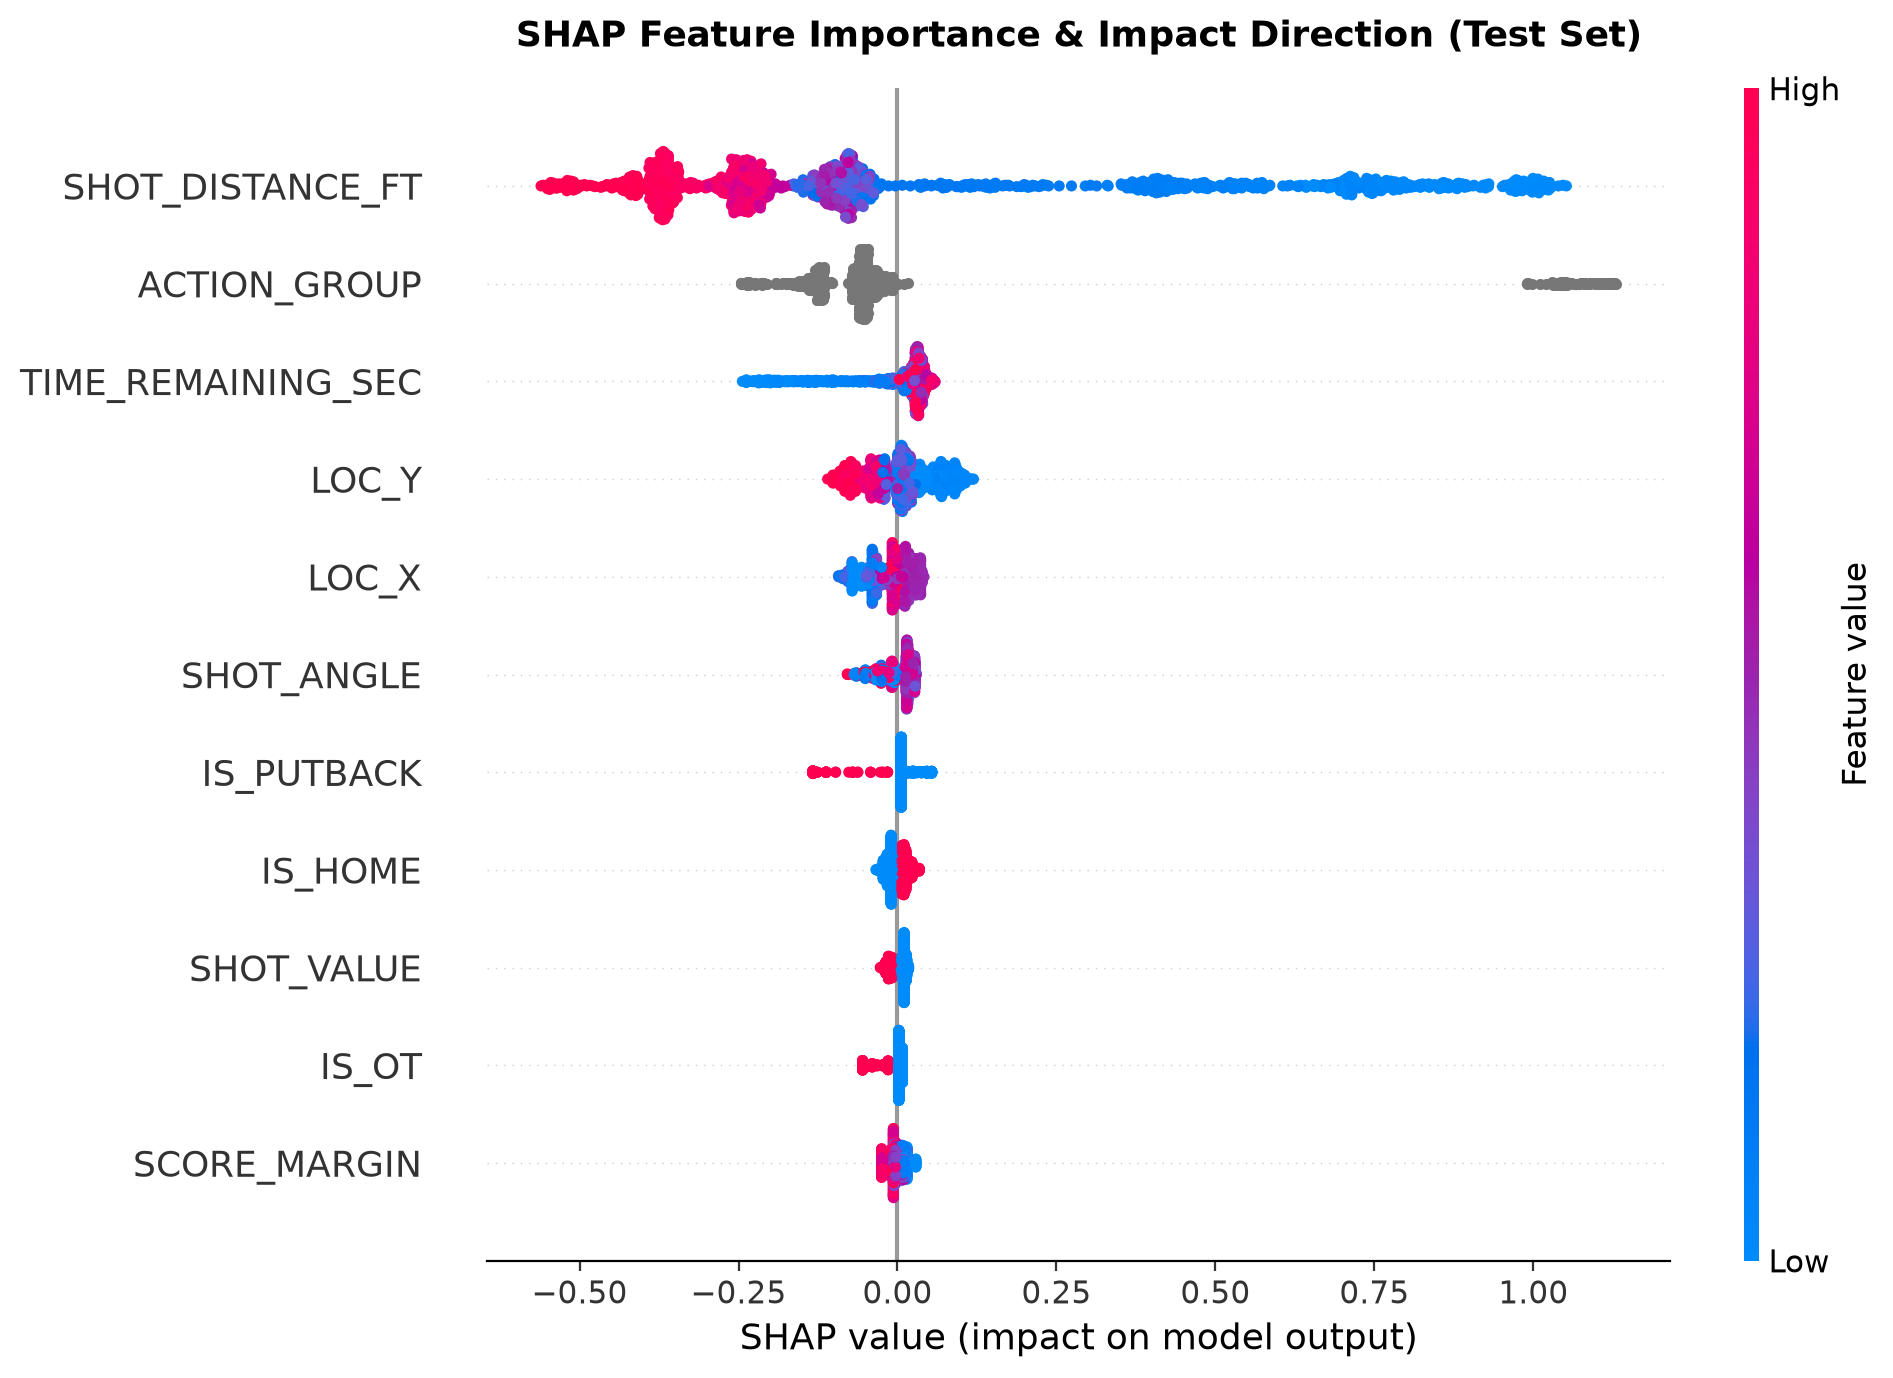
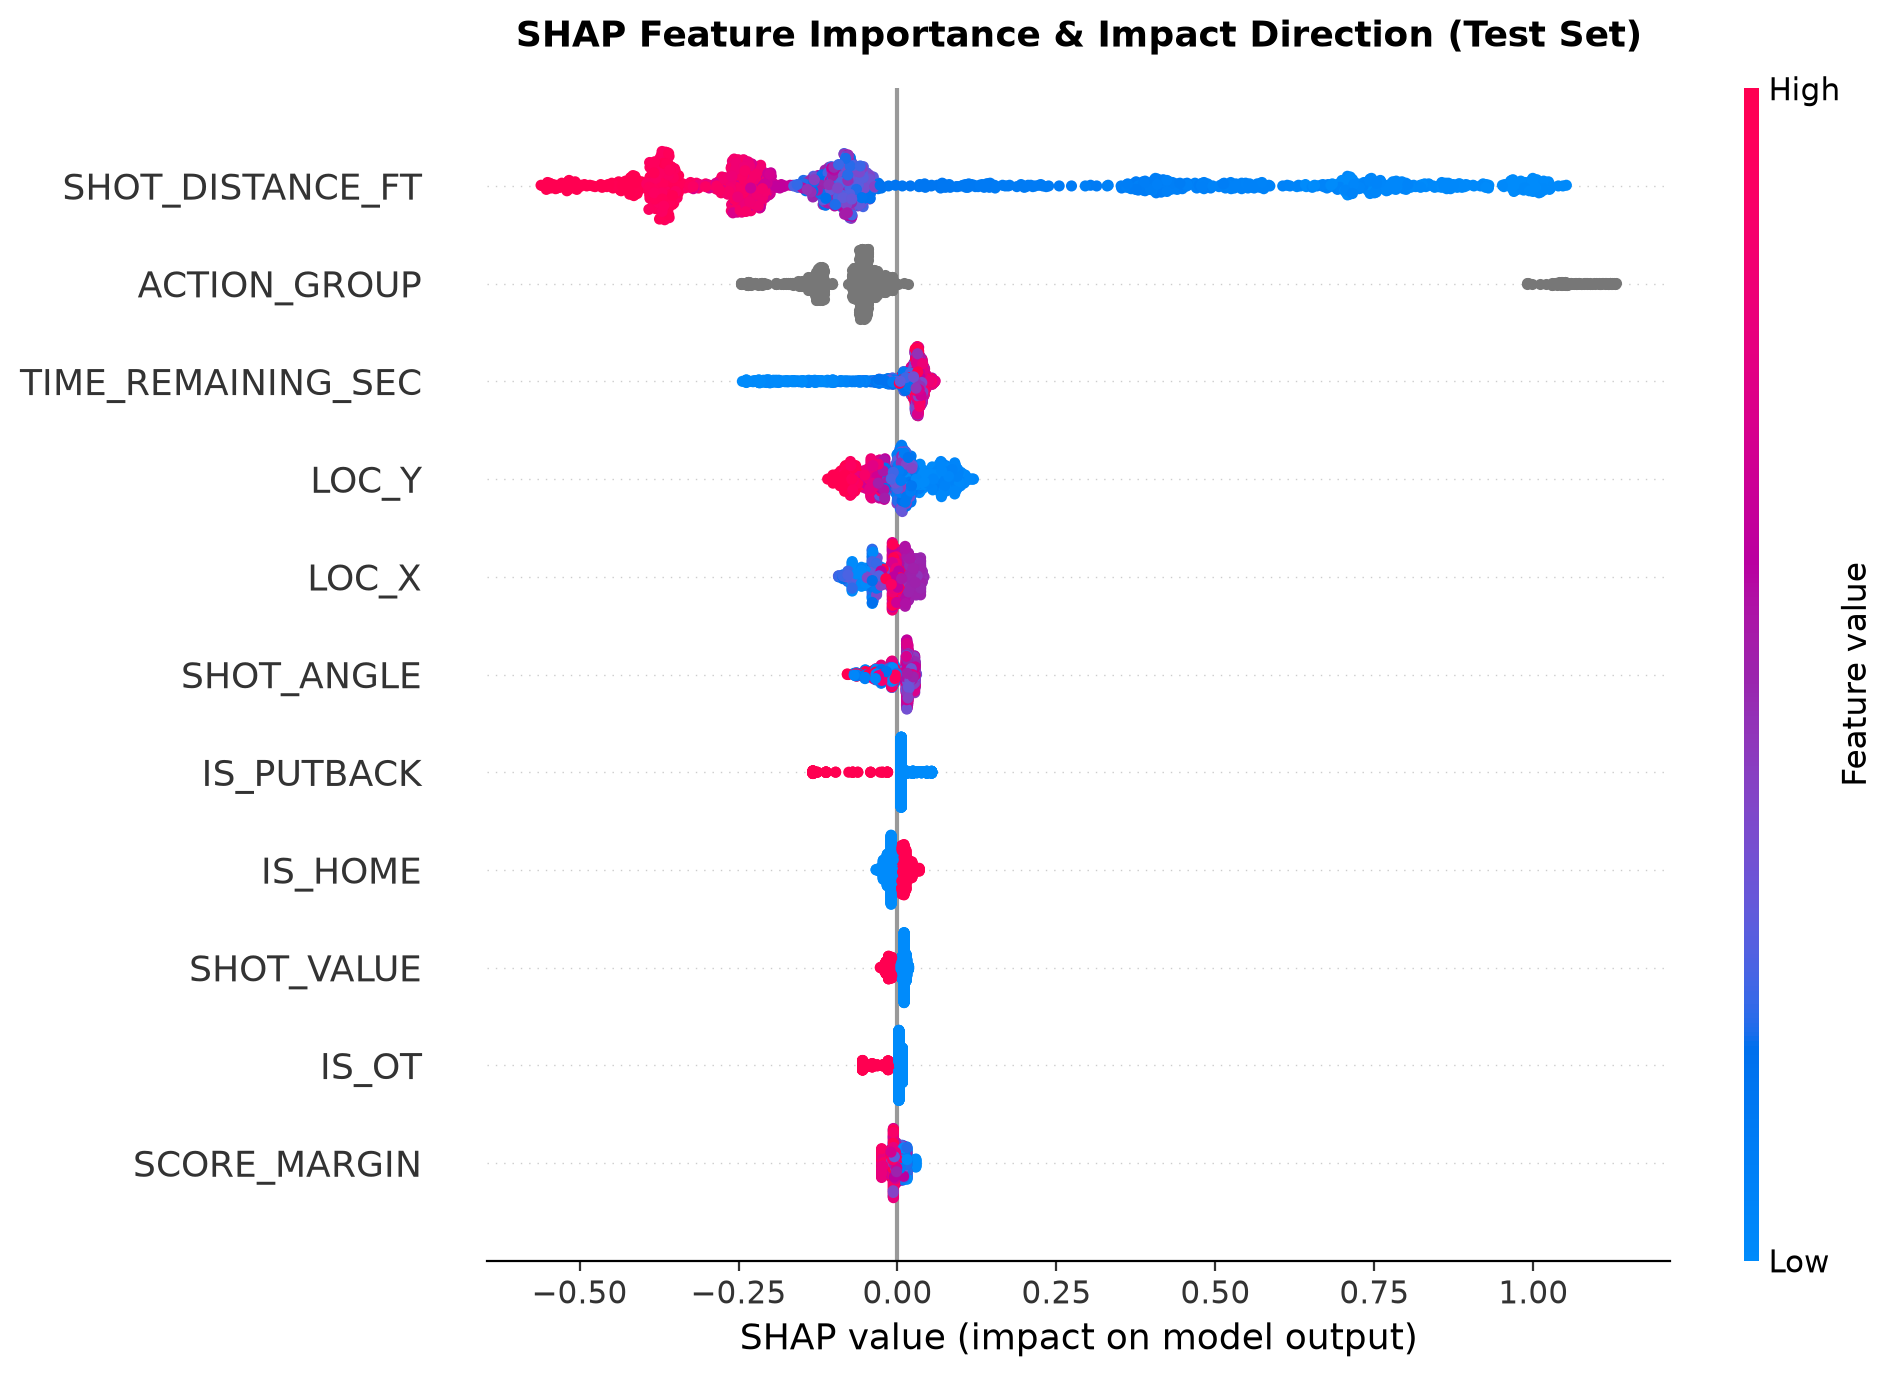
docs: update README usage, calibration notes, and metric intervals

diff --git a/README.md b/README.md
@@ -83,7 +83,7 @@ python src/plot_shots.py             # 6. shot map -> docs/clutch_shot_map.png
 python src/features.py               # 7. feature table and split summary
 python src/train.py                  # 8. baselines, XGBoost, calibration, metrics, saved models
 python src/explain.py                # 9. SHAP plots and summaries -> docs/
-python src/predict.py                # 10. demo: xP for a few hand-made shots (add --calibrated for the optional Platt step)
+python src/predict.py                # 10. demo: P(make) and xP for a few hand-made shots, raw and Platt-calibrated side by side
 pytest                               # run the unit tests
 ```
 
@@ -92,6 +92,7 @@ Notes:
 - Step 1 takes a few minutes and step 2 takes roughly 30 to 40 minutes per season, because requests are spaced out to avoid rate limiting. Both are resumable.
 - `fetch_pbp.py --limit 20` downloads only the first 20 games, which is handy for testing the rest of the pipeline quickly.
 - Trained models are written to `models/` (gitignored), including the XGBoost model in portable JSON format.
+- Tests that need trained models are skipped until `python src/train.py` has run.
 
 ## Data
 
@@ -161,14 +162,14 @@ With about 155 shots per bin on this test set, sampling noise alone produces an 
 
 | Comparison | ΔBrier (95% CI) | ΔLog loss (95% CI) | ΔROC AUC (95% CI) |
 | :--- | :---: | :---: | :---: |
-| XGBoost vs constant | -0.0217 (-0.0283, -0.0159), p < 0.002 | -0.0461 (-0.0602, -0.0337), p < 0.002 | +0.164 (+0.140, +0.192), p < 0.002 |
+| XGBoost vs constant | -0.0217 (-0.0283, -0.0159), p < 0.002 | -0.0461 (-0.0602, -0.0329), p < 0.002 | +0.164 (+0.140, +0.192), p < 0.002 |
 | XGBoost vs Logistic++ | -0.0015 (-0.0050, +0.0010), p = 0.33 | -0.0039 (-0.0127, +0.0020), p = 0.29 | +0.012 (+0.001, +0.025), p = 0.02 |
 
 (500 resamples cannot resolve p-values below 0.002.) The XGBoost edge over Logistic++ is small, around 0.001 to 0.002 Brier, and whether it counts as "significant" depends on an arbitrary 0.05 threshold: an earlier version of the pipeline gave p = 0.06 for the Brier difference, and the feature sets of the models changed between versions. The AUC result is one of three uncorrected comparisons and is weak evidence on its own, so effect sizes with intervals are reported rather than verdicts.
 
 ### Calibration
 
-Calibrators were compared with nested grouped cross-validation on the training set, without touching the test set. Platt scaling (Brier 0.2203, log loss 0.6295) beat isotonic regression (Brier 0.2211, log loss 0.6588), but the fitted Platt parameters (slope 1.14, intercept 0.04) are close to the identity, so raw XGBoost probabilities are already well calibrated. **Uncalibrated XGBoost is the default**, and the Platt step is an optional flag in `predict.py`.
+Calibrators were compared with nested grouped cross-validation on the training set, without touching the test set. Platt scaling (Brier 0.2203, log loss 0.6295) beat isotonic regression (Brier 0.2211, log loss 0.6588), but the fitted Platt parameters (slope 1.14, intercept 0.04) are close to the identity, so raw XGBoost probabilities are already well calibrated. **Uncalibrated XGBoost is the default**, and the Platt step is available through the calibrated=True argument of predict_make_probability and expected_points in predict.py.
 
 ### Feature ablation
 
@@ -243,7 +244,7 @@ Being upfront about what this model can and can't claim:
 │   ├── explain.py                # SHAP analysis
 │   └── predict.py                # P(make) and xP for a single shot or a table
 ├── tests/                        # pytest unit tests
-├── docs/                         # figures used in this README
+├── docs/                         # figures and metrics JSON used in this README
 ├── models/                       # gitignored: trained model files
 ├── data/                         # gitignored: raw and processed Parquet files
 ├── requirements.txt
